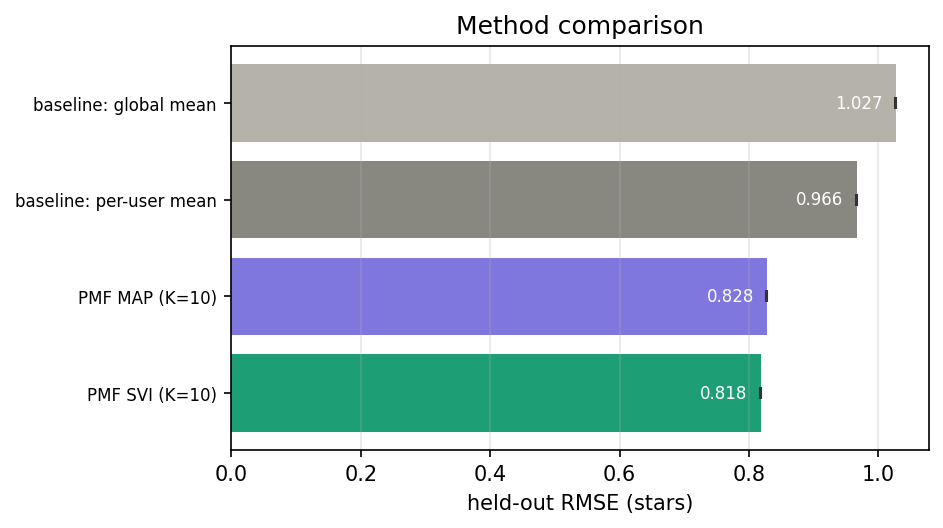
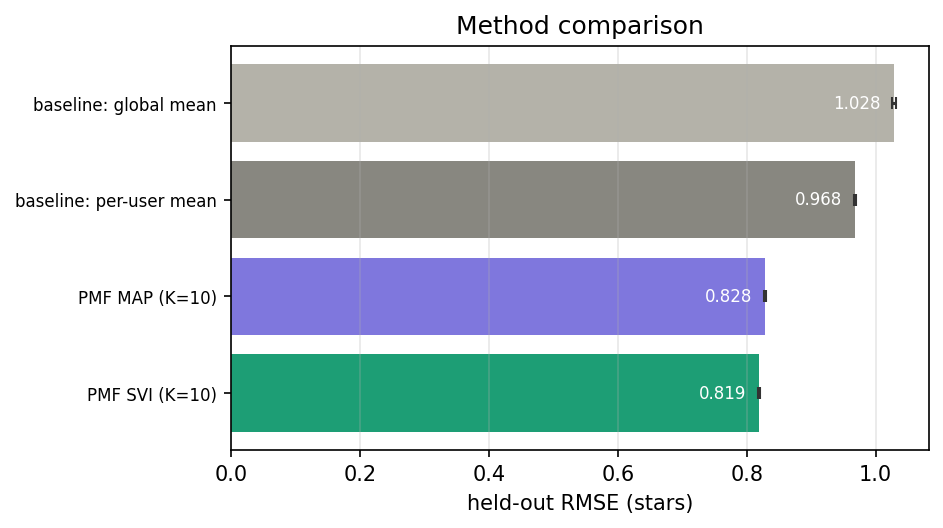
let it begin

diff --git a/experiments.py b/experiments.py
@@ -10,7 +10,7 @@ import pmf
 RESULTS = "results"
 FIGS = os.path.join(RESULTS, "figs")
 SEED = 0
-SEEDS = (0, 1, 2)
+SEEDS = (0, 1, 2, 3, 4)
 NUM_STEPS = 1500
 TEST_FRAC = 0.2
 FIXED_K = 10